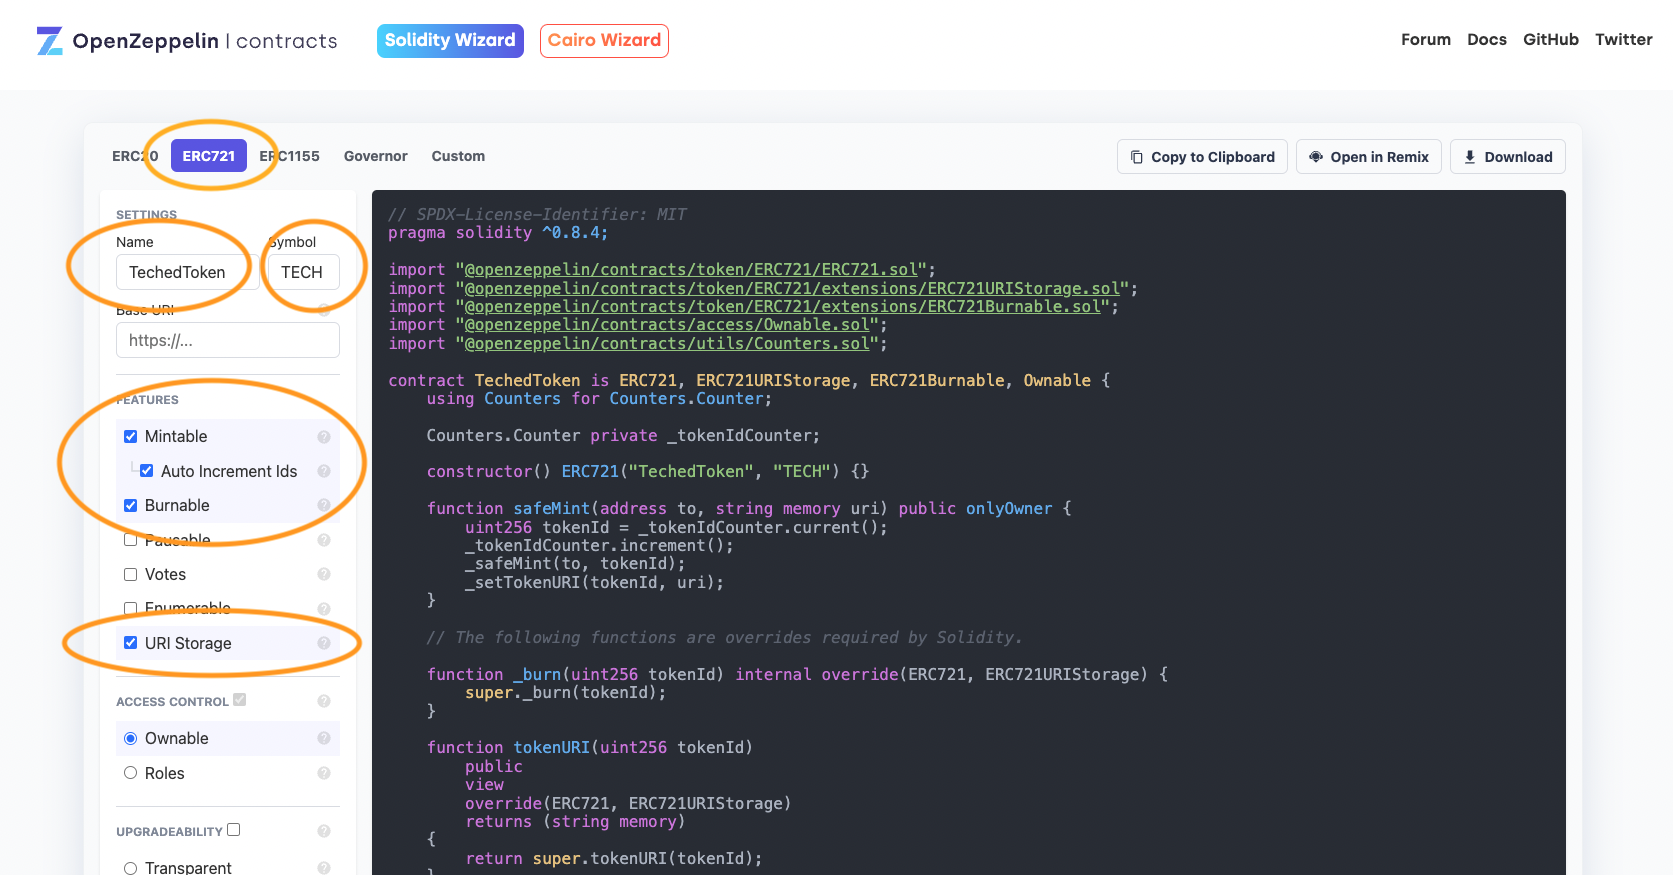
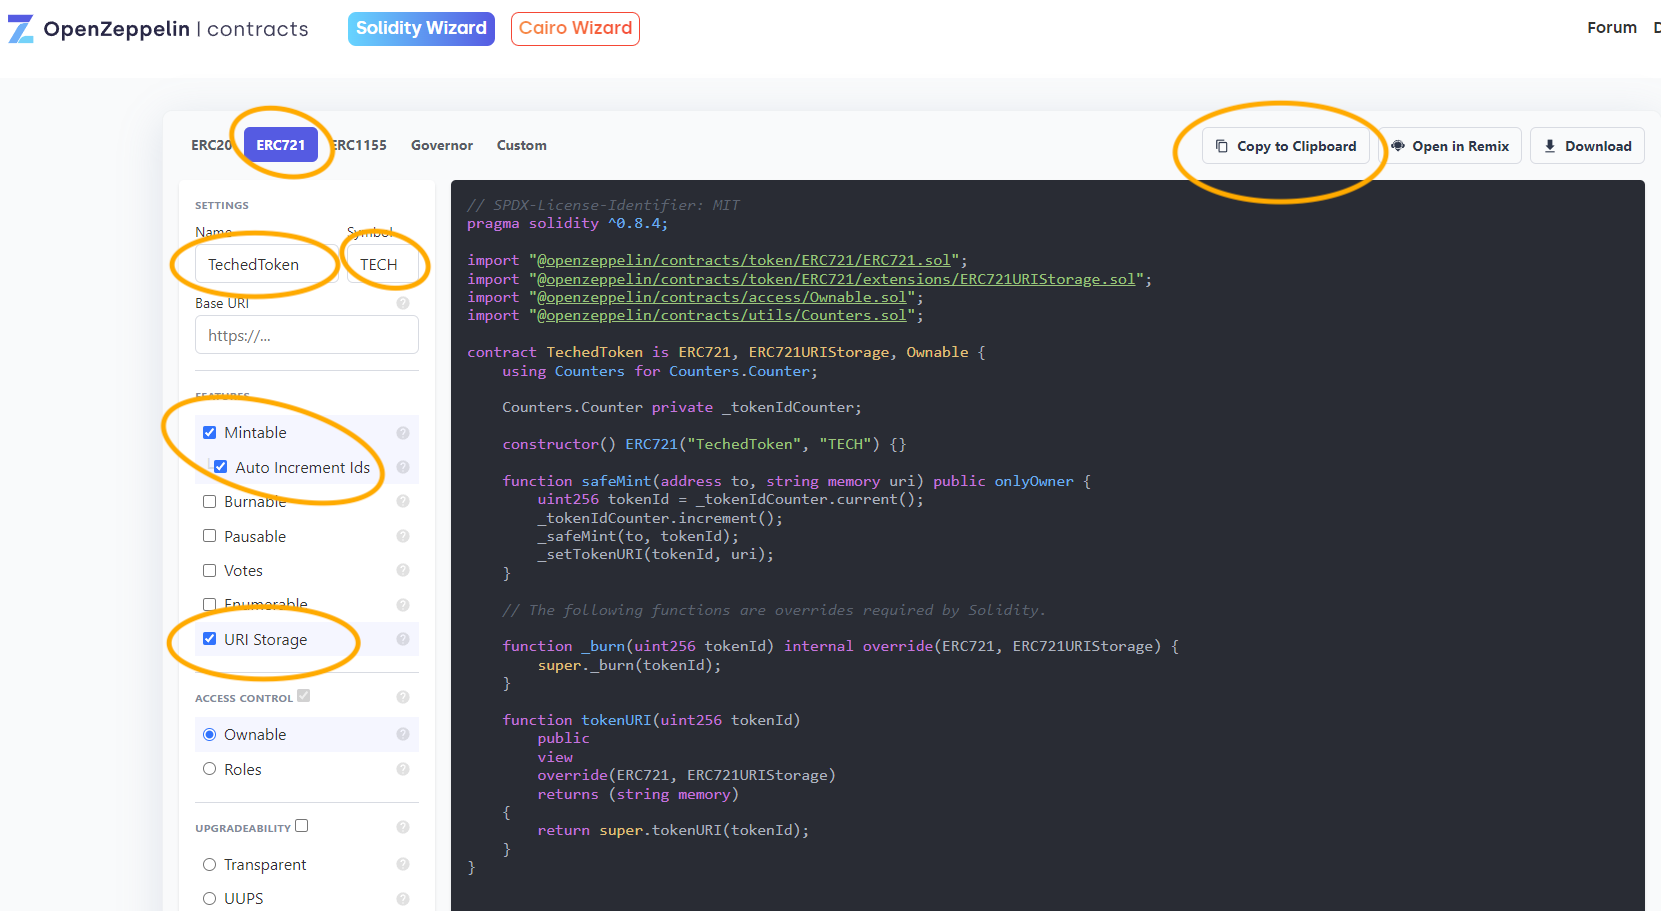
adjust images and TODOs; remove burn

diff --git a/exercises/ex1/README.md b/exercises/ex1/README.md
@@ -4,13 +4,7 @@ If you came here to learn about modern smart contract development, you're at the
 
 ## Creating and exploring an new Hardhat project
 
-Open Visual Code
-
-TODO Screenshot
-
-Open Terminal
-
-TODO Screenshot
+![Open a Terminal in Visual Studio Code](images/terminal.png)
 
 To get started with Hardhat, please create a new `ap260` folder and open this folder in the Visual Studio Code Terminal:
 

diff --git a/exercises/ex2/README.md b/exercises/ex2/README.md
@@ -21,7 +21,6 @@ Let's configure a new ERC-721 smart contract:
 
   - `Mintable` - our NFT should be mintable
   - `Auto Increment Ids` - the internal uninque TokenID shall be automatically incremented.
-  - 'Burnable' - allows the owner of the NFT to _delete_ the NFT.
   - `URI Storage` - to be able to specify for each NFT own metadata
 
 ![Using the OpenZeppelin smart contract wizard](images/wizard.png)

diff --git a/README.md b/README.md
@@ -1,13 +1,5 @@
 # AP260 - Beyond Just an NFT: Unlocking Utility in Smart Contracts
 
-## TODO
-
-- ex1 screenshots Visual Code and Open Terminal
-- check hardhat plugin is installed?
-- rename GOERLI_PRIVATE_KEY?
-- add MARKER at ex3 tests
-- check with teched team for NFT images ex2
-
 ## Description
 
 **YOU DON’T NEED TO CLONE THIS REPOSITORY**.
